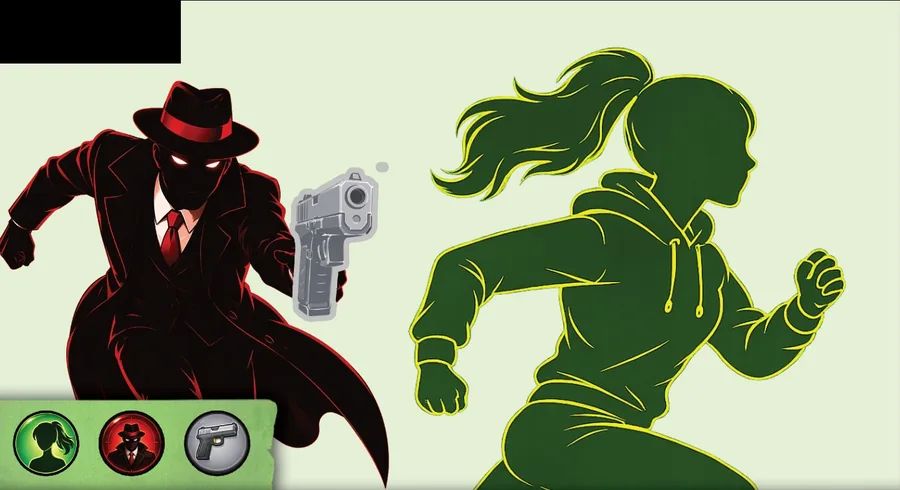
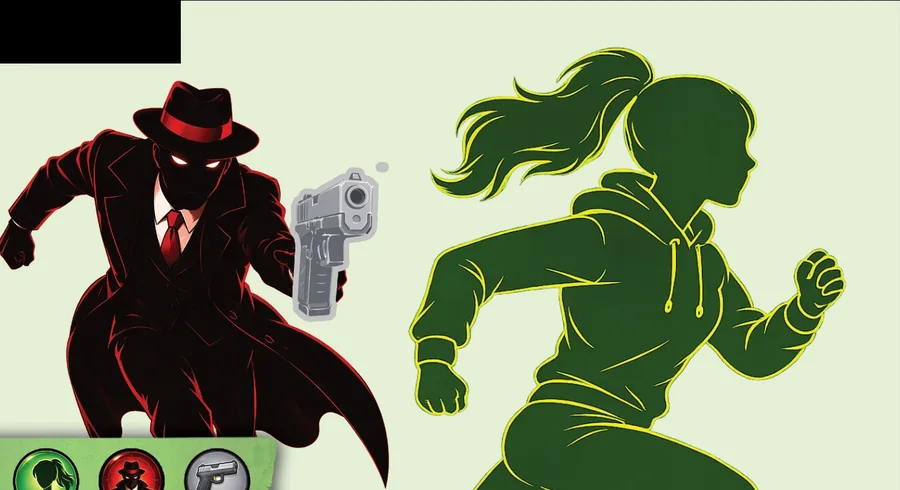
v2.37 - Plans Larges 106 et 107 avec les fleches de montage
- Plans Larges 106 et 107 du Set 3.1 remplacés par leur nouvelle version : « 4 × ◁◁ Séquence » et « 4 × Séquence ▷▷ » — 4 points par séquence au lieu de 3.
- « Séquence au-dessus / en dessous » se dessine avec les flèches des cartes : ◁◁ devant le cartouche pour les séquences d'avant, ▷▷ derrière pour celles d'après. Le compte ne change pas.

Claude-Session: https://claude.ai/code/session_01SEL89cNhQA7nZJAfcMueK5

Changed region(s): [[0.0, 0.7959, 0.5289, 1.0], [0.84, 0.9796, 1.0, 1.0]]

diff --git a/js/cards.js b/js/cards.js
@@ -48,12 +48,16 @@ export function objContenu(obj, taille, compact, cfg, large) {
     objCoeur(obj, taille, compact, large)}</span>${fleche('droite')}${suite}</span>`;
 }
 
-/** L'icône ▷▷ de la portée « cette carte et toute la suite du montage ». */
-export function avanceRapide() {
-  // Comme sur la carte imprimée : la flèche de droite, un peu plus grande,
-  // chevauche la pointe de celle de gauche — dessinée en second, elle passe
-  // dessus, et son cerne noir la détache.
-  return `<span class="avance-rapide" role="img" aria-label="et toute la suite du montage"><svg viewBox="0 0 100 80">
+/**
+ * L'icône ▷▷ de la portée « cette carte et toute la suite du montage » — ou,
+ * retournée, ◁◁ : « ce qui vient avant ».
+ */
+export function avanceRapide(recul = false) {
+  // Comme sur la carte imprimée : la flèche de devant, un peu plus grande,
+  // chevauche la pointe de l'autre — dessinée en second, elle passe dessus, et
+  // son cerne noir la détache. Le retour est le même dessin, en miroir.
+  return `<span class="avance-rapide ${recul ? 'recul' : ''}" role="img" aria-label="${
+    recul ? 'avant' : 'et toute la suite du montage'}"><svg viewBox="0 0 100 80">
     <g fill="#fff" stroke="#16161a" stroke-width="7" stroke-linejoin="round">
       <path d="M8 10 L62 40 L8 70 Z"/><path d="M33 6 L93 40 L33 74 Z"/></g></svg></span>`;
 }
@@ -202,8 +206,10 @@ function objCoeur(obj, taille, compact, large) {
     case 'SEQ_TAILLE': return blocSeq(compact,
       `<span class="tag tag-blanc">${seuilTexte(obj.sens === 'MAX' ? 'MAX' : 'MIN', obj.seuil)}
         Plan${obj.seuil > 1 ? 's' : ''}</span>`, large);
-    case 'SEQ_VOISINES': return `${tagSeq(compact)}
-      <span class="fleche-seq">${obj.sens === 'APRES' ? '▼' : '▲'}</span>`;
+    // Les séquences d'avant ou d'après la sienne, dans l'ordre du montage :
+    // ◁◁ devant le cartouche, ▷▷ derrière — les icônes des cartes imprimées.
+    case 'SEQ_VOISINES': return obj.sens === 'APRES'
+      ? `${tagSeq(compact)}${avanceRapide()}` : `${avanceRapide(true)}${tagSeq(compact)}`;
     // « La plus longue » : on compte ses plans, d'où la pastille Plan.
     // « de la plus longue » n'est pas une chose du jeu : c'est du texte qui
     // relie deux cartouches. Il s'écrivait dans la pastille violette de la
@@ -598,7 +604,7 @@ function coutCoeur(obj, compact, P, large) {
       const bas = t(`${seuilTexte(obj.sens === 'MAX' ? 'MAX' : 'MIN', obj.seuil)} Plans`);
       return large ? haut + g + bas : BLOC_SEQ * Math.max(haut, bas);
     }
-    case 'SEQ_VOISINES': return t('Séquence', 'Séq') + g + 0.9;
+    case 'SEQ_VOISINES': return t('Séquence', 'Séq') + g + P.rond * 1.1;
     case 'SEQ_LONGUE': return t('Plan') + g + mot('de la plus longue') + g
       + t('Séquence', 'Séq');
     case 'SEQ_AVEC': {

diff --git a/css/styles.css b/css/styles.css
@@ -2143,9 +2143,11 @@ body.sans-illus .bandeau .tag.tag-seq { font-size: .74em; }
 .ap-obj-visuel .fleche-pos { color: var(--fl, var(--encre)); }
 /* ▷▷ — la portée « et toute la suite du montage ». Elle a la hauteur d'une
    pastille et un peu plus de largeur : ce sont deux triangles côte à côte. */
-.avance-rapide { display: inline-flex; align-items: center; height: 1.95em; flex: none; margin-left: .12em; }
+.avance-rapide { display: inline-flex; align-items: center; height: 1.6em; flex: none; margin-left: .12em; }
 .avance-rapide svg { height: 100%; width: auto; display: block; filter: drop-shadow(0 1px 1px rgba(0, 0, 0, .35)); }
 .moitie.f-GP .bandeau .avance-rapide { height: 1.75em; }
+.avance-rapide.recul { margin: 0 .12em 0 0; }
+.avance-rapide.recul svg { transform: scaleX(-1); }
 
 /* Une icône peut être portée plusieurs fois : le compte s'affiche en pastille. */
 .choix-icones .ic { position: relative; }

diff --git a/js/data.js b/js/data.js
@@ -1213,8 +1213,8 @@ const TABLES = {
       PL(103, 45, ['ENNEMI', 'ALLIE', 'OBJET', 'VEHICULE'], OBJ.seqAvec(4, 'SANS', 'ARME')),
       PL(104, 90, ['HEROINE', 'ALLIE', 'VEHICULE'], OBJ.extreme(1, 'PLUS', 'MONTAGE')),
       PL(105, 90, ['HEROINE', 'ENNEMI', 'ALLIE'], OBJ.seqAvec(3, 'AVEC', 'HEROINE+ENNEMI+ALLIE'), { mort: true }),
-      PL(106, 90, ['HEROINE', 'OBJET', 'VEHICULE'], OBJ.seqVoisines(3, 'AVANT')),
-      PL(107, 15, ['HEROINE', 'ENNEMI', 'ARME'], OBJ.seqVoisines(3, 'APRES')),
+      PL(106, 90, ['HEROINE', 'OBJET', 'VEHICULE'], OBJ.seqVoisines(4, 'AVANT')),
+      PL(107, 15, ['HEROINE', 'ENNEMI', 'ARME'], OBJ.seqVoisines(4, 'APRES')),
       PL(108, 30, ['ALLIE', 'ENNEMI', 'OBJET'], OBJ.seqAvec(4, 'SANS', 'HEROINE')),
       PL(109, 15, ['ALLIE', 'OBJET', 'ARME'], OBJ.seqAvec(3, 'AVEC', 'RACCORD')),
       PL(110, 60, ['HEROINE', 'ENNEMI', 'ARME', 'VEHICULE'], OBJ.seqAvec(3, 'AVEC', 'PLAN', 3)),

diff --git a/js/version.js b/js/version.js
@@ -1,8 +1,16 @@
 // Compteur de version — incrémenter à chaque modification livrée.
-export const VERSION = '2.36';
-export const BUILD_DATE = '2026-10-01 14:21';
+export const VERSION = '2.37';
+export const BUILD_DATE = '2026-10-01 14:27';
 
 export const CHANGELOG = [
+  {
+    v: '2.37',
+    date: '01/10/2026',
+    items: [
+      "<b>Plans Larges 106 et 107 du Set 3.1 remplacés</b> par leur nouvelle version : « 4 × ◁◁ Séquence » et « 4 × Séquence ▷▷ » — 4 points par séquence au lieu de 3.",
+      "<b>« Séquence au-dessus / en dessous » se dessine avec les flèches des cartes</b> : ◁◁ devant le cartouche pour les séquences d'avant, ▷▷ derrière pour celles d'après. Le compte ne change pas.",
+    ],
+  },
   {
     v: '2.36',
     date: '01/10/2026',

diff --git a/sw.js b/sw.js
@@ -7,7 +7,7 @@
 // site, et ne se rabat sur sa copie en cache qu'en cas de coupure — le site
 // reste donc consultable hors ligne, mais n'est jamais périmé en ligne.
 
-const CACHE = 'edit-2.36';
+const CACHE = 'edit-2.37';
 
 self.addEventListener('install', () => {
   // La nouvelle version du worker prend la main sans attendre.
